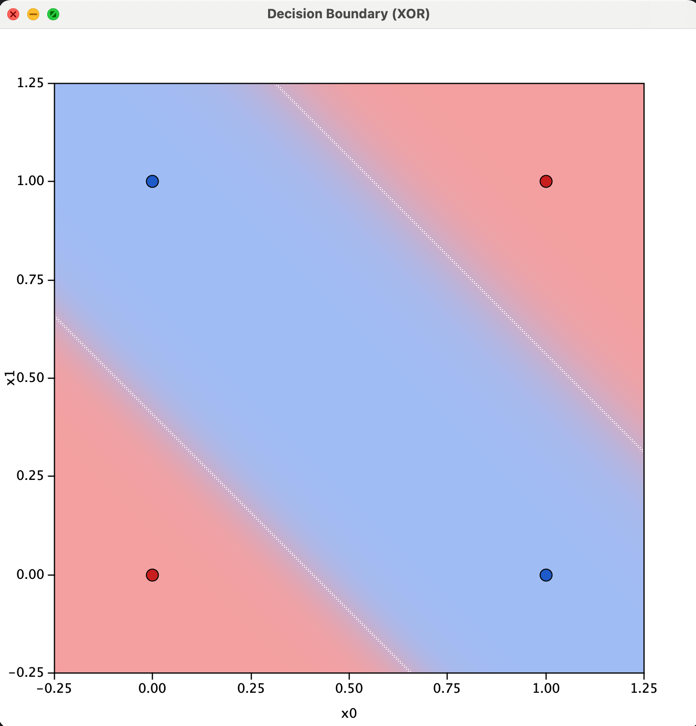
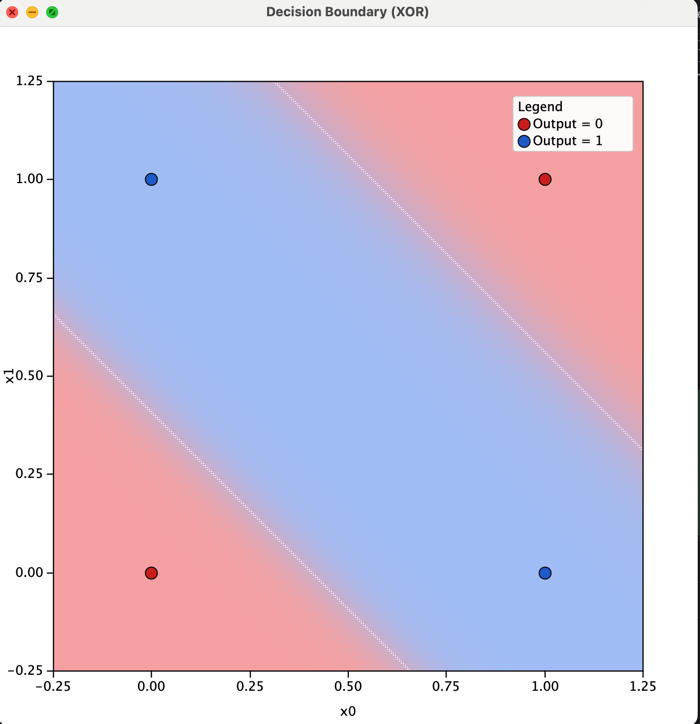
adding legend to xor plot, readme updates

diff --git a/src/main/java/ch/innunvation/ui/BoundaryPanelBinary.java b/src/main/java/ch/innunvation/ui/BoundaryPanelBinary.java
@@ -123,6 +123,9 @@ public class BoundaryPanelBinary extends JPanel {
         // Axes + ticks + labels
         drawAxes(g2, px0, py0, pw, ph);
 
+        // Draw legend
+        drawLegend(g2, px0, py0, pw, ph);
+
         g2.dispose();
     }
 
@@ -194,6 +197,45 @@ public class BoundaryPanelBinary extends JPanel {
 
     private static double lerp(double a, double b, double t) {
         return a + (b - a) * t;
+    }
+
+    private void drawLegend(Graphics2D g2, int px0, int py0, int pw, int ph) {
+        // Legend position: top-right corner, inside plot area
+        int legendX = px0 + pw - 130;
+        int legendY = py0 + 15;
+        int legendWidth = 120;
+        int legendHeight = 55;
+        
+        // Draw legend background with slight transparency
+        g2.setColor(new Color(255, 255, 255, 240));
+        g2.fillRoundRect(legendX, legendY, legendWidth, legendHeight, 5, 5);
+        g2.setColor(new Color(200, 200, 200, 200));
+        g2.setStroke(new BasicStroke(1.0f));
+        g2.drawRoundRect(legendX, legendY, legendWidth, legendHeight, 5, 5);
+        
+        // Draw legend title
+        g2.setColor(Color.BLACK);
+        String title = "Legend";
+        g2.drawString(title, legendX + 5, legendY + 15);
+        
+        // Draw Output 0 entry (red)
+        int markerSize = 6;
+        int y1 = legendY + 28;
+        g2.setColor(new Color(200, 30, 30));
+        g2.fillOval(legendX + 5, y1 - markerSize, 2 * markerSize, 2 * markerSize);
+        g2.setColor(Color.BLACK);
+        g2.drawOval(legendX + 5, y1 - markerSize, 2 * markerSize, 2 * markerSize);
+        g2.setColor(Color.BLACK);
+        g2.drawString("Output = 0", legendX + 20, y1 + 4);
+        
+        // Draw Output 1 entry (blue)
+        int y2 = legendY + 45;
+        g2.setColor(new Color(30, 90, 200));
+        g2.fillOval(legendX + 5, y2 - markerSize, 2 * markerSize, 2 * markerSize);
+        g2.setColor(Color.BLACK);
+        g2.drawOval(legendX + 5, y2 - markerSize, 2 * markerSize, 2 * markerSize);
+        g2.setColor(Color.BLACK);
+        g2.drawString("Output = 1", legendX + 20, y2 + 4);
     }
 
     private static Color blend(Color a, Color b, double t) {

diff --git a/README.md b/README.md
@@ -9,7 +9,7 @@ The project progresses from simple to complex examples, all with visualizations:
 - **3-Class Problem**: Multi-class classification with one-hot encoding
 - **3-Class Overfitting**: Demonstrates model overfitting with contradictory labels
 - **4-Class Problem**: Extended multi-class classification
-- **Interactive 3-Class Trainer**: GUI tool for interactively creating datasets and visualizing decision boundaries in real-time
+- **Interactive 3-Class Trainer**: GUI tool for interactively creating datasets and visualizing decision boundaries in real-time as well as an **Error Surface Visualization** that allows to explore the error landscape as a function of weight values!
 
 **Real-World Applications**:
 - **Gender Classification (MLP)**: From-scratch implementation applied to face image classification (48×48 grayscale images, ~80% accuracy)
